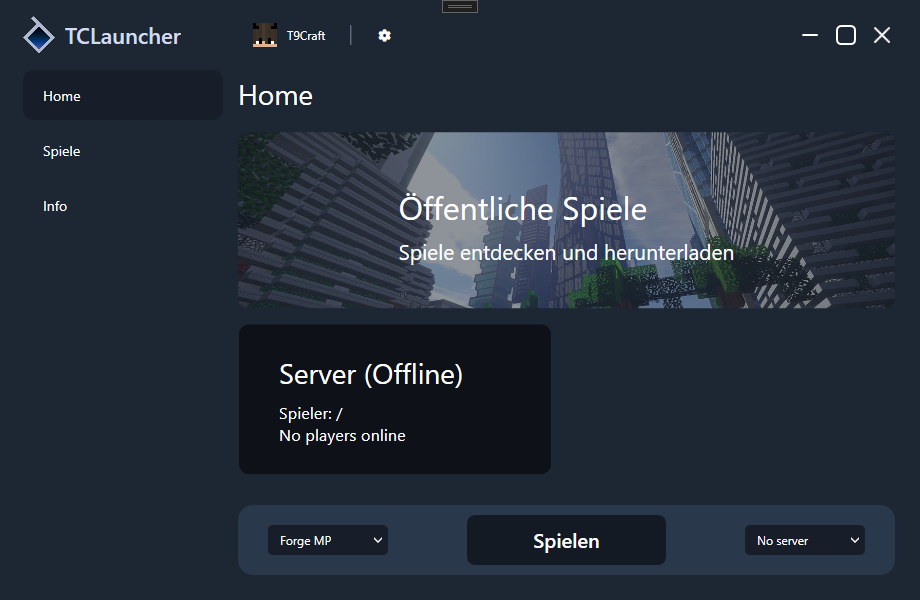
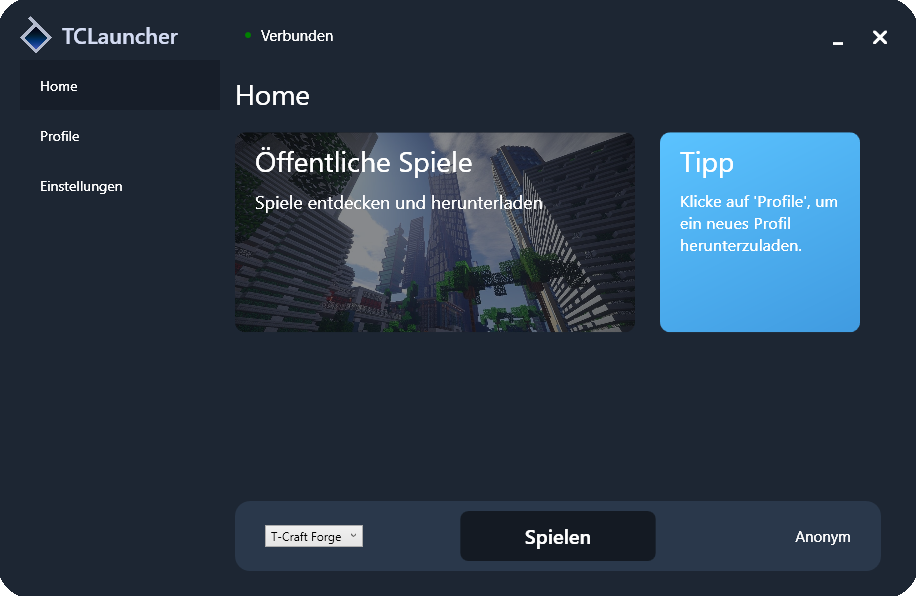
feat: new windowtype and stating screen

diff --git a/TCLauncher/MVVM/Windows/MainWindow.xaml b/TCLauncher/MVVM/Windows/MainWindow.xaml
@@ -2,6 +2,7 @@
     x:Class="TCLauncher.MVVM.Windows.MainWindow"
     xmlns="http://schemas.microsoft.com/winfx/2006/xaml/presentation"
     xmlns:x="http://schemas.microsoft.com/winfx/2006/xaml"
+    xmlns:busyIndicator="https://github.com/moh3ngolshani/BusyIndicator"
     xmlns:controls="clr-namespace:TCLauncher.MVVM.Controls"
     xmlns:converters="clr-namespace:TCLauncher.MVVM.Converters"
     xmlns:d="http://schemas.microsoft.com/expression/blend/2008"
@@ -11,16 +12,15 @@
     Title="TCLauncher"
     Width="920"
     Height="600"
-    AllowsTransparency="True"
-    Background="Transparent"
+    MinWidth="920"
+    MinHeight="600"
+    Background="#1d2633"
     Foreground="White"
     Icon="/Assets/Images/logo.png"
     KeyDown="MainWindow_OnKeyDown"
     Loaded="Window_Loaded"
-    ResizeMode="NoResize"
-    StateChanged="Window_StateChanged"
+    StateChanged="MainWindow_OnStateChanged"
     WindowStartupLocation="CenterScreen"
-    WindowStyle="None"
     mc:Ignorable="d">
 
     <Window.DataContext>
@@ -31,23 +31,47 @@
         <converters:ObjectTypeToBooleanConverter x:Key="ObjectTypeToBooleanConverter" />
     </Window.Resources>
 
+    <WindowChrome.WindowChrome>
+        <WindowChrome
+            CaptionHeight="0"
+            CornerRadius="40"
+            GlassFrameThickness="0"
+            ResizeBorderThickness="4" />
+    </WindowChrome.WindowChrome>
+
     <Grid>
-        <Grid>
-            <Image
-                x:Name="loadingImg"
+        <Grid
+            x:Name="loadingGrid"
+            MouseLeftButtonDown="TopDrag_OnMouseLeftButtonDown"
+            MouseLeftButtonUp="TopDrag_OnMouseLeftButtonUp"
+            Visibility="Collapsed">
+            <StackPanel
                 HorizontalAlignment="Center"
                 VerticalAlignment="Center"
-                Panel.ZIndex="99"
-                MouseDown="loadingImg_MouseDown"
-                Source="/Assets/Images/logo.png" />
+                Panel.ZIndex="99">
+                <Image
+                    x:Name="loadingImg"
+                    Width="160"
+                    MouseDown="loadingImg_MouseDown"
+                    Source="/Assets/Images/logo.png" />
+                <Label
+                    Margin="0,15,0,0"
+                    HorizontalAlignment="Center"
+                    Content="Starting ..."
+                    FontFamily="{StaticResource PixelifySans}"
+                    FontSize="25"
+                    Foreground="#b2b9cc" />
+            </StackPanel>
+            <MediaElement
+                x:Name="BgMediaElement"
+                LoadedBehavior="Manual"
+                MediaEnded="BgMediaElement_OnMediaEnded"
+                Source="pack://siteoforigin:,,,/Assets/Videos/bganim.mp4"
+                Stretch="UniformToFill"
+                UnloadedBehavior="Manual" />
         </Grid>
 
-        <Border
-            x:Name="mainBorder"
-            Background="#1d2633"
-            BorderBrush="#10FFFFFF"
-            BorderThickness="2"
-            CornerRadius="20">
+        <Border x:Name="mainBorder" Background="#1d2633">
             <Grid>
                 <Grid.ColumnDefinitions>
                     <ColumnDefinition Width="23" />
@@ -321,6 +345,7 @@
                 </Grid>
 
                 <ContentControl
+                    x:Name="FrameView"
                     Grid.Row="2"
                     Grid.Column="2"
                     Margin="15"

diff --git a/TCLauncher/MVVM/View/SettingsView.xaml b/TCLauncher/MVVM/View/SettingsView.xaml
@@ -107,6 +107,14 @@
                 Content="fScreen starten"
                 Style="{StaticResource ModernButton}"
                 Tag="0" />
+            <Button
+                x:Name="hotReloadBtn"
+                Margin="0,7.5,0,0"
+                Padding="5"
+                Click="HotReloadBtn_OnClick"
+                Content="Hot Reload"
+                Style="{StaticResource ModernButton}"
+                Tag="0" />
             <TextBlock
                 x:Name="assemblyVersion"
                 Margin="0,10,0,0"

diff --git a/TCLauncher/MVVM/Windows/MainWindow.xaml.cs b/TCLauncher/MVVM/Windows/MainWindow.xaml.cs
@@ -3,10 +3,13 @@ using System.IO;
 using System.Net.Http;
 using System.Threading.Tasks;
 using System.Windows;
+using System.Windows.Controls;
 using System.Windows.Input;
 using System.Windows.Media;
 using System.Windows.Media.Animation;
+using System.Windows.Media.Effects;
 using System.Windows.Media.Imaging;
+using System.Windows.Threading;
 using CmlLib.Core.Auth;
 using TCLauncher.Core;
 using TCLauncher.MVVM.ViewModel;
@@ -27,6 +30,10 @@ namespace TCLauncher.MVVM.Windows
             InitializeComponent();
             vm = (MainViewModel)this.DataContext;
             is_silent = silent;
+
+            ResetBgMedia();
+            loadingGrid.Visibility = Visibility.Visible;
+            mainBorder.Visibility = Visibility.Collapsed;
 
             AppUtils.HandleUpdates();
 
@@ -74,72 +81,44 @@ namespace TCLauncher.MVVM.Windows
             return "Unbekannt";
         }
 
-        private void Window_Loaded(object sender, RoutedEventArgs e)
+        private async void Window_Loaded(object sender, RoutedEventArgs e)
         {
             if (!is_silent)
             {
                 loadingAnim();
             } else
             {
-                loadingImg.Visibility = Visibility.Collapsed;
+                loadingGrid.Visibility = Visibility.Collapsed;
             }
         }
 
-        private void loadingAnim()
+        public void loadingAnim()
         {
-            mainBorder.Visibility = Visibility.Collapsed;
-            mainBorder.Opacity = 0;
-            DoubleAnimation inAnim = new DoubleAnimation
-            {
-                From = 0,
-                To = 200,
-                Duration = new Duration(TimeSpan.FromSeconds(2)),
-                EasingFunction = new CubicEase() { EasingMode = EasingMode.EaseInOut }
-            };
-
             DoubleAnimation pageAnim = new DoubleAnimation
             {
                 From = 0,
                 To = 100,
-                Duration = new Duration(TimeSpan.FromSeconds(2)),
+                Duration = new Duration(TimeSpan.FromSeconds(4)),
                 EasingFunction = new CubicEase() { EasingMode = EasingMode.EaseInOut }
             };
+            
+            Storyboard pageStoryboard = new Storyboard();
+            pageStoryboard.Children.Add(pageAnim);
 
-            Storyboard inStoryboard = new Storyboard();
-            inStoryboard.Children.Add(inAnim);
+            Storyboard.SetTarget(pageAnim, mainBorder);
+            Storyboard.SetTargetProperty(pageAnim, new PropertyPath(FrameworkElement.OpacityProperty));
 
-            Storyboard.SetTarget(inAnim, loadingImg);
-            Storyboard.SetTargetProperty(inAnim, new PropertyPath(FrameworkElement.WidthProperty));
-
-            Storyboard.SetTarget(inAnim, loadingImg);
-            Storyboard.SetTargetProperty(inAnim, new PropertyPath(FrameworkElement.HeightProperty));
-
-            inStoryboard.Completed += (s, e) =>
+            pageStoryboard.Completed += (s2, e2) =>
             {
-                Storyboard pageStoryboard = new Storyboard();
-                pageStoryboard.Children.Add(pageAnim);
-
-                Storyboard.SetTarget(pageAnim, mainBorder);
-                Storyboard.SetTargetProperty(pageAnim, new PropertyPath(FrameworkElement.OpacityProperty));
+                pageAnim = null;
+                pageStoryboard = null;
+                loadingGrid.Visibility = Visibility.Collapsed;
 
                 mainBorder.Visibility = Visibility.Visible;
-
-                pageStoryboard.Completed += (s2, e2) =>
-                {
-                    inAnim = null;
-                    inStoryboard = null;
-                    pageAnim = null;
-                    pageStoryboard = null;
-                    loadingImg.Visibility = Visibility.Collapsed;
-
-                    mainBorder.Visibility = Visibility.Visible;
-                    mainBorder.Opacity = 100;
-                };
-
-                pageStoryboard.Begin();
+                mainBorder.Opacity = 100;
             };
 
-            inStoryboard.Begin();
+            pageStoryboard.Begin();
         }
 
         private void closeBtn_Click(object sender, RoutedEventArgs e)
@@ -150,18 +129,7 @@ namespace TCLauncher.MVVM.Windows
         private async void minimizeBtn_Click(object sender, RoutedEventArgs e)
         {
             if (WindowState == WindowState.Minimized) return;
-
-            minimizeBtn.IsEnabled = false;
-            
-            FadeOut(0.15);
-
-            await Task.Delay(150);
-            
             WindowState = WindowState.Minimized;
-
-            FadeIn(0);
-
-            minimizeBtn.IsEnabled = true;
         }
 
         private async void maximizeBtn_Click(object sender, RoutedEventArgs e)
@@ -172,8 +140,6 @@ namespace TCLauncher.MVVM.Windows
             }
             else
             {
-                FadeOut(0.2);
-                await Task.Delay(300);
                 this.WindowState = WindowState.Maximized;
             }
         }
@@ -234,25 +200,25 @@ namespace TCLauncher.MVVM.Windows
             BeginAnimation(Window.OpacityProperty, fadeOutAnimation);
         }
 
-        private void Window_StateChanged(object sender, System.EventArgs e)
-        {
-            switch (this.WindowState)
-            {
-                case WindowState.Normal:
-                    mainBorder.CornerRadius = new CornerRadius(20);
-                    mainBorder.BorderThickness = new Thickness(2);
-                    break;
-                case WindowState.Maximized:
-                    FadeIn(0.2);
-                    mainBorder.CornerRadius = new CornerRadius(0);
-                    mainBorder.BorderThickness = new Thickness(0);
-                    break;
-                case WindowState.Minimized:
-                    break;
-                default:
-                    break;
-            }
-        }
+        //private void Window_StateChanged(object sender, System.EventArgs e)
+        //{
+        //    switch (this.WindowState)
+        //    {
+        //        case WindowState.Normal:
+        //            mainBorder.CornerRadius = new CornerRadius(20);
+        //            mainBorder.BorderThickness = new Thickness(2);
+        //            break;
+        //        case WindowState.Maximized:
+        //            FadeIn(0.2);
+        //            mainBorder.CornerRadius = new CornerRadius(0);
+        //            mainBorder.BorderThickness = new Thickness(0);
+        //            break;
+        //        case WindowState.Minimized:
+        //            break;
+        //        default:
+        //            break;
+        //    }
+        //}
 
         //private async void connectionBorder_MouseDown(object sender, MouseButtonEventArgs e)
         //{
@@ -319,14 +285,10 @@ namespace TCLauncher.MVVM.Windows
 
         private void MainWindow_OnKeyDown(object sender, KeyEventArgs e)
         {
-            switch (e.Key)
-            {
-                case Key.F11:
-                    this.WindowState = (this.WindowState == WindowState.Maximized)
-                        ? WindowState.Normal
-                        : WindowState.Maximized;
-                    break;
-            }
+            if (e.Key == Key.F11)
+                this.WindowState = (this.WindowState == WindowState.Maximized)
+                    ? WindowState.Normal
+                    : WindowState.Maximized;
         }
 
         private void AccountManagerBtn_OnClick(object sender, RoutedEventArgs e)
@@ -346,6 +308,26 @@ namespace TCLauncher.MVVM.Windows
                 AccountManagerBtnName.Text = "Nicht eingeloggt";
                 AccountManagerBtnPicture.Source = new BitmapImage(new Uri("pack://application:,,,/Assets/Images/steve.png"));
             }
+        }
+
+        private async void MainWindow_OnStateChanged(object sender, EventArgs e)
+        {
+            if (WindowState == WindowState.Minimized)
+            {
+                Topmost = true;
+                Topmost = false;
+            }
+        }
+
+        private void BgMediaElement_OnMediaEnded(object sender, RoutedEventArgs e)
+        {
+            ResetBgMedia();
+        }
+
+        private void ResetBgMedia()
+        {
+            BgMediaElement.Position = TimeSpan.Zero;
+            BgMediaElement.Play();
         }
     }
 }

diff --git a/TCLauncher/MVVM/View/HomeView.xaml.cs b/TCLauncher/MVVM/View/HomeView.xaml.cs
@@ -276,7 +276,15 @@ namespace TCLauncher.MVVM.View
             }
             catch
             {
[1 lines of base64/hex data omitted]
+                try
+                {
+                    webView.Source = new Uri(
[1 lines of base64/hex data omitted]
+                }
+                catch
+                {
+                    // ignored
+                }
             }
         }
 

diff --git a/TCLauncher/MVVM/View/SettingsView.xaml.cs b/TCLauncher/MVVM/View/SettingsView.xaml.cs
@@ -245,5 +245,13 @@ namespace TCLauncher.MVVM.View
             Properties.Settings.Default.Save();
             App.MainWin.ReloadNavPolicies();
         }
+
+        private void HotReloadBtn_OnClick(object sender, RoutedEventArgs e)
+        {
+            App.MainWin.loadingGrid.Visibility = Visibility.Visible;
+            App.MainWin.mainBorder.Visibility = Visibility.Collapsed;
+            App.MainWin.loadingAnim();
+            App.MainWin.navigateToHome();
+        }
     }
 }
